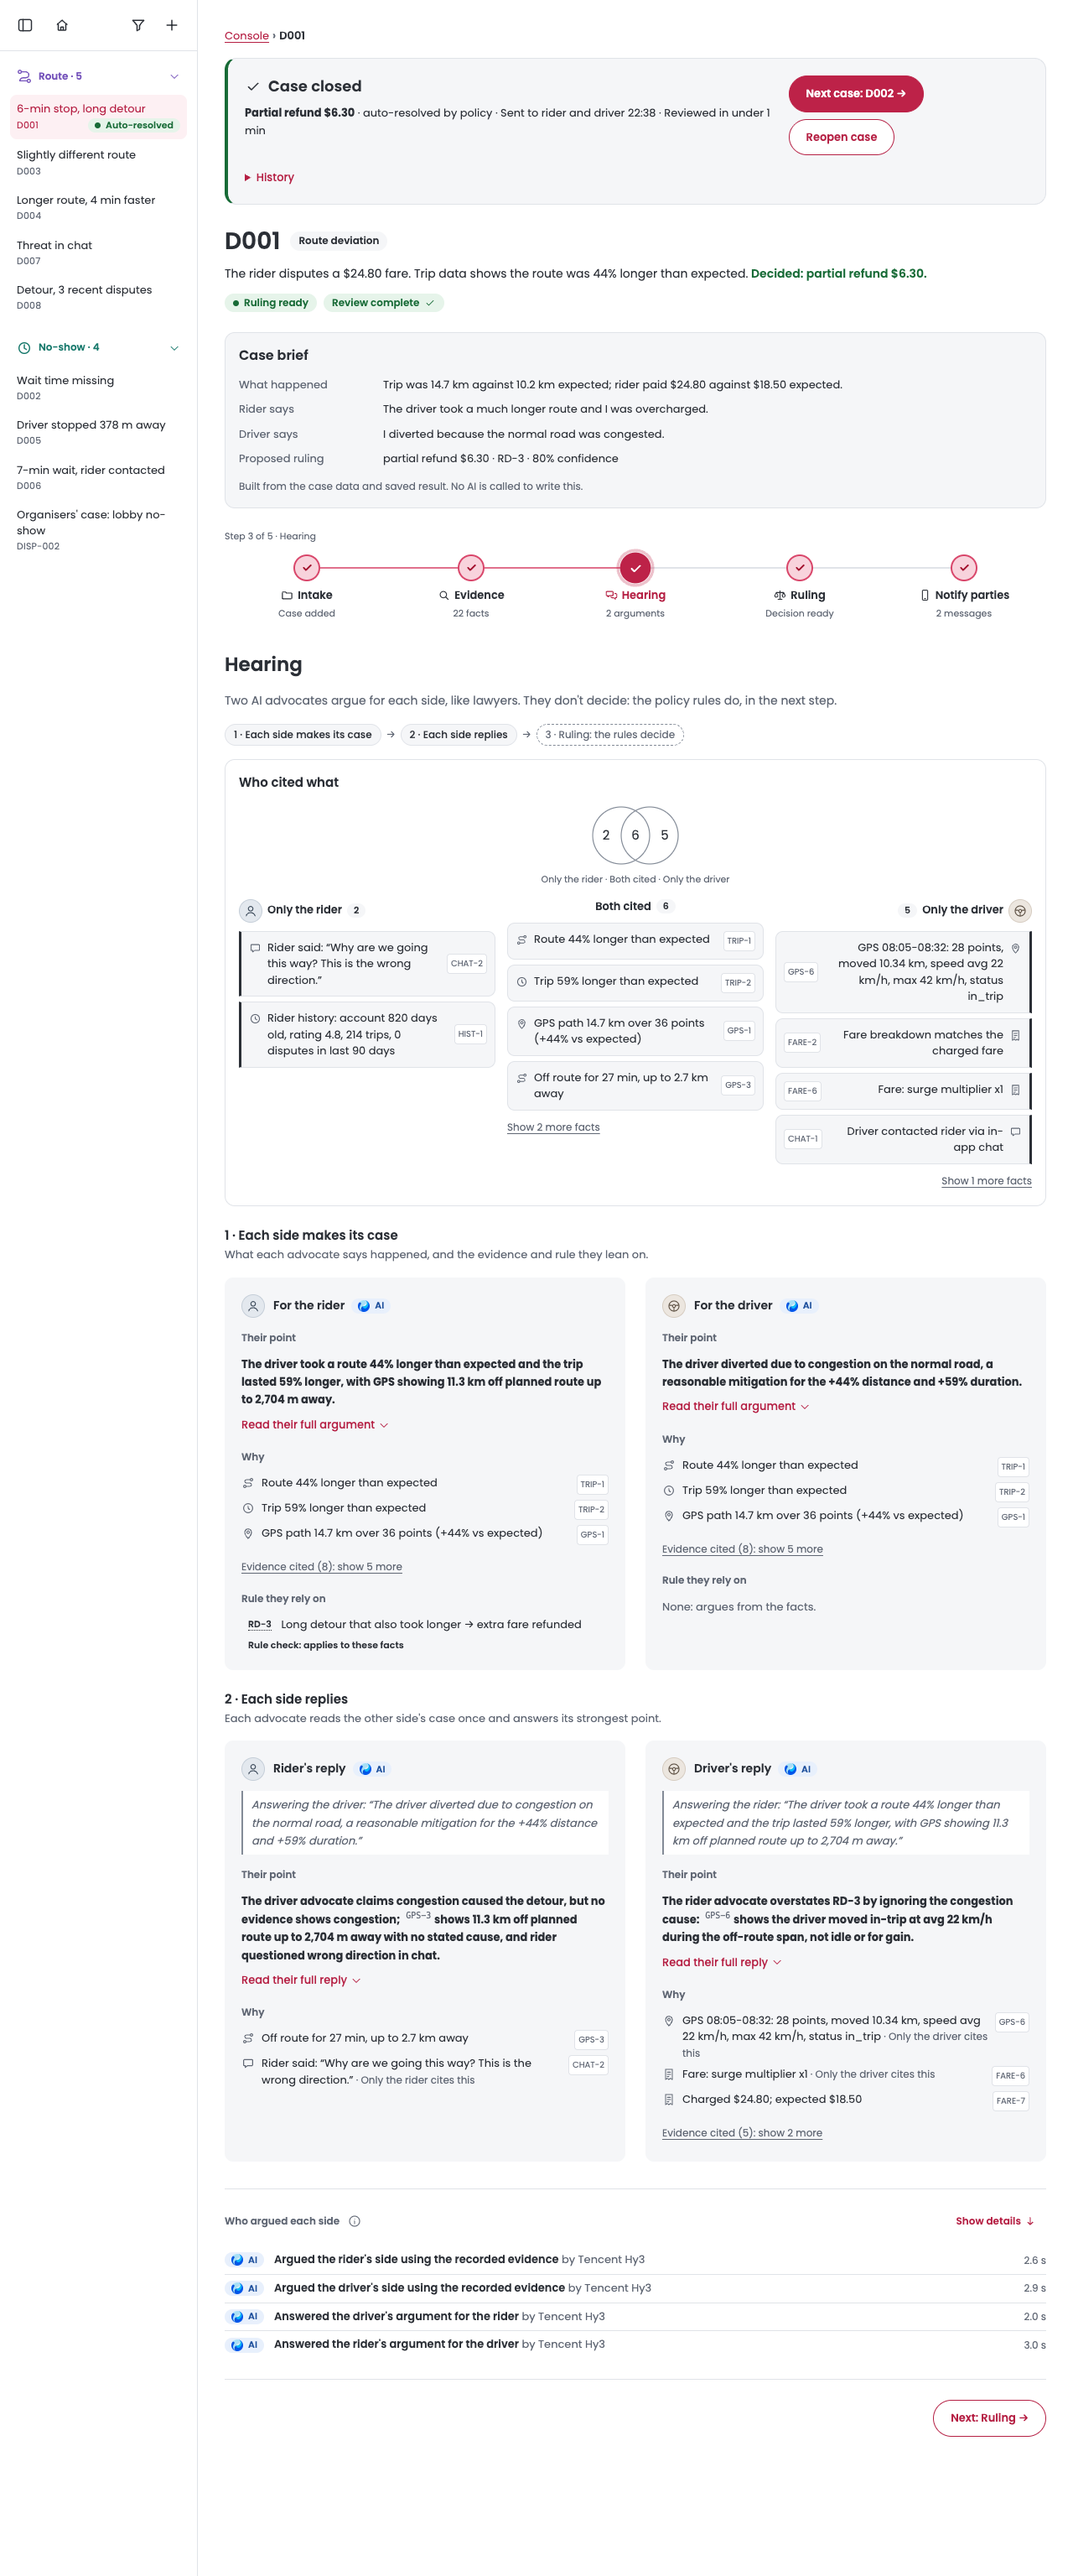
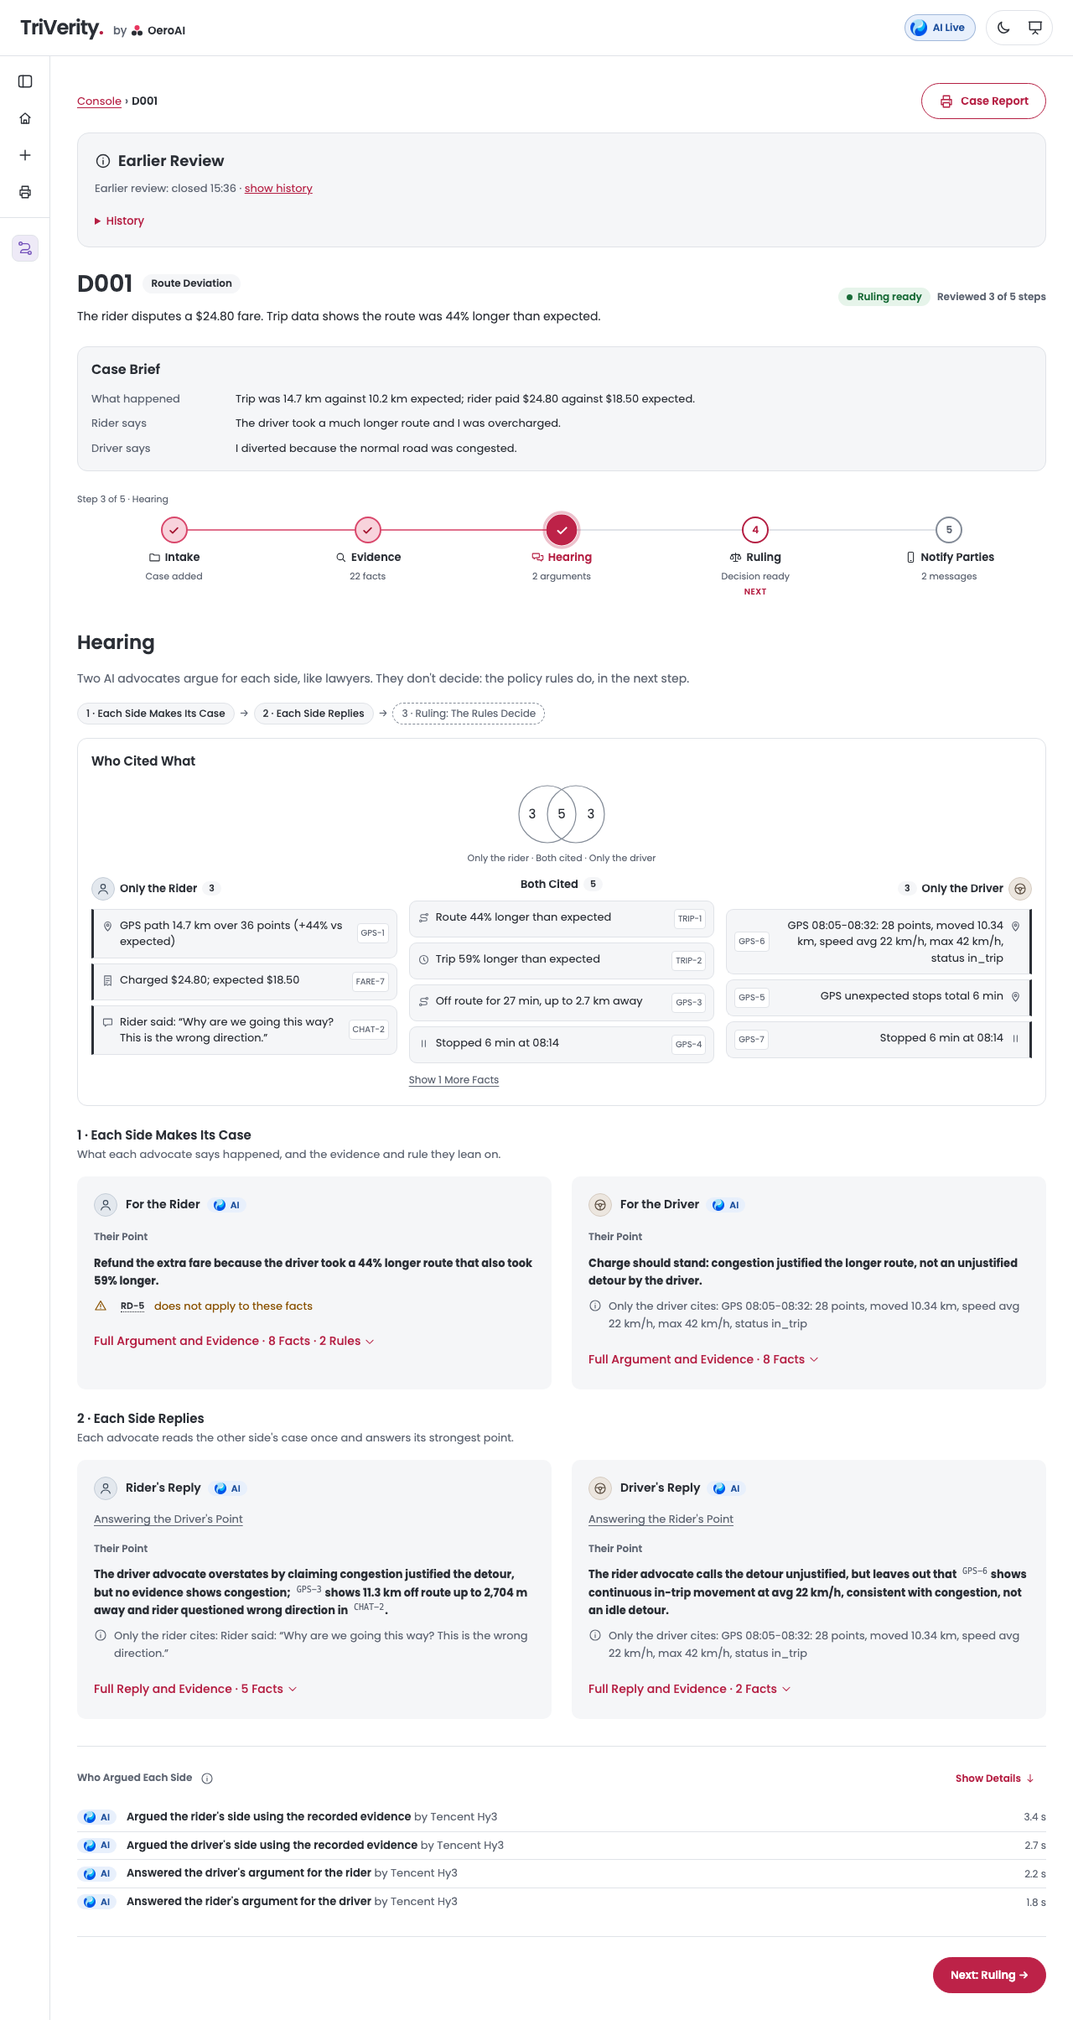
README: New for Demo Day section and fresh screenshots
Adds a section near the top of the README on what changed on 31 Oct: AI Review and its confirmation, the plainer Ruling, bad-faith reasons, Rules for This Case, case reports, shorter Hearing cards, the simpler Evidence step and clearer AI labels. Retakes all eleven screenshots from current main and adds three. Updates test counts to 955 backend and 428 frontend, the AI Live / AI Off and Run Agents names, and removes a stale claim about the History card.

diff --git a/README.md b/README.md
@@ -20,7 +20,7 @@ Live sample measurements and offline simulation results; [measurement context be
 
 ## A quick look
 
-Select an image to view it full size. [All eleven screenshots and their provenance](docs/screenshots/README.md).
+Select an image to view it full size. [All fourteen screenshots and their provenance](docs/screenshots/README.md).
 
 <table width="100%">
 <tr>
@@ -29,13 +29,37 @@ Select an image to view it full size. [All eleven screenshots and their provenan
 </tr>
 <tr>
 <td width="50%"><a href="docs/screenshots/04-evidence.png"><img src="docs/screenshots/04-evidence.png" alt="D001 evidence with the GPS route, stop timeline, fare checks and source facts" width="100%"></a><br><strong>Check the evidence</strong></td>
-<td width="50%"><a href="docs/screenshots/05-hearing.png"><img src="docs/screenshots/05-hearing.png" alt="Rider and driver arguments with key facts, evidence categories and rebuttals" width="100%"></a><br><strong>Hear both sides</strong></td>
+<td width="50%"><a href="docs/screenshots/05-hearing.png"><img src="docs/screenshots/05-hearing.png" alt="Rider and driver arguments side by side: who cited what, each side's point, and the detail folded under it" width="100%"></a><br><strong>Hear both sides</strong></td>
 </tr>
 <tr>
-<td width="50%"><a href="docs/screenshots/06-ruling.png"><img src="docs/screenshots/06-ruling.png" alt="Ruling with the outcome, confidence, explanation and accept or override controls" width="100%"></a><br><strong>Review the ruling</strong></td>
+<td width="50%"><a href="docs/screenshots/06-ruling.png"><img src="docs/screenshots/06-ruling.png" alt="Ruling that leads with the outcome and why, what the rules found, what would change it, and accept or override controls" width="100%"></a><br><strong>Review the ruling</strong></td>
 <td width="50%"><a href="docs/screenshots/07-notify.png"><img src="docs/screenshots/07-notify.png" alt="Delivered rider and driver phone messages with an optional reviewer note" width="100%"></a><br><strong>Approve the party messages</strong></td>
 </tr>
+<tr>
+<td width="50%"><a href="docs/screenshots/12-rules-for-this-case.png"><img src="docs/screenshots/12-rules-for-this-case.png" alt="D008 ruling explaining why it needs a person, with each policy rule and its result on this case in a side panel" width="100%"></a><br><strong>See every rule's result on this case</strong></td>
+<td width="50%"><a href="docs/screenshots/13-case-report.png"><img src="docs/screenshots/13-case-report.png" alt="Printable case report for D008 with its status, rules, evidence, arguments and how AI was used" width="100%"></a><br><strong>Save a case report as PDF</strong></td>
+</tr>
 </table>
+
+## New for Demo Day
+
+Added on 31 Oct 2026, after the hackathon submission. None of this changes the policy rules or how a ruling is decided;
+it makes the console easier for a real reviewer to use. The demo video was recorded before these changes.
+
+- **AI Review for the whole queue:** one button runs the waiting sample cases. Routine ones close themselves, and the
+  rest stay in your queue, [safety first, then oldest](docs/screenshots/02-reviewer-home.png).
+- **A confirmation before it runs:** [AI Review says what it will do](docs/screenshots/14-ai-review-confirm.png), with
+  the approximate AI cost and a warning that routine cases close and notify the rider and driver.
+- **A plainer Ruling:** [it opens with the outcome and why](docs/screenshots/06-ruling.png), then what the rules found
+  and what would change it. When a person must decide, it says [why, and what each side asks for](docs/screenshots/12-rules-for-this-case.png).
+- **Bad-faith risk comes with its reasons:** an escalation lists the signals behind it, and says a signal isn't proof.
+- **Rules for This Case:** [each rule's result on this case](docs/screenshots/12-rules-for-this-case.png), with the full
+  policy one click away, so a reviewer doesn't have to remember it.
+- **Case reports:** a [printable report for each case](docs/screenshots/13-case-report.png), saved as PDF from the
+  browser. It opens from the case page or the side menu, says whether the outcome is final, and is marked internal.
+- **Shorter Hearing cards:** [each side's point first](docs/screenshots/05-hearing.png), with the argument and evidence folded beneath it.
+- **A simpler Evidence step:** [a list of findings](docs/screenshots/04-evidence.png), one source at a time, with flagged items first.
+- **Clearer AI labels:** if AI Live is on but a result used fallback text, the Ruling says so and suggests a re-run.
 
 ## Architecture
 
@@ -43,7 +67,7 @@ Select an image to view it full size. [All eleven screenshots and their provenan
 
 [Read the architecture](docs/architecture.md) · [Watch live progress](docs/screenshots/03-live-progress.png) · [Closed review and correction history](docs/screenshots/08-closed-case.png) · [A case that closed itself](docs/screenshots/11-auto-resolved.png)
 
-**On this page:** [Results](#results) · [What it does](#what-it-does) · [Ryde requirements](#ryde-requirements-where-to-see-each) · [Documentation](#documentation) · [Run it locally](#run-it-locally) · [What's next](#whats-next) · [Built with](#built-with)
+**On this page:** [New for Demo Day](#new-for-demo-day) · [Results](#results) · [What it does](#what-it-does) · [Ryde requirements](#ryde-requirements-where-to-see-each) · [Documentation](#documentation) · [Run it locally](#run-it-locally) · [What's next](#whats-next) · [Built with](#built-with)
 
 ## Results
 
@@ -110,12 +134,13 @@ same facts always give the same ruling, and every ruling is explained.
   case, and automatic decisions never become precedents
 - **Observable**: the demo UI shows the evidence, each agent's argument and citations, the fraud risk, and
   whether the AI or the fallback produced each step
-- **Reviewer workflow**: home queue → Evidence → Hearing → Ruling (accept or override) → Notify
+- **Reviewer workflow**: home queue (**AI Review** runs the waiting cases, after a confirmation) → Evidence → Hearing → Ruling (accept or override) → Notify
   (optional reviewer note and privacy check). Internal IDs and assessments in a note block sending;
   everyday words such as "history" only warn. Sending closes the case; a deliberate reopen permits a
   correction, while history keeps every sent message. An investigation or a refund above the reviewer's
   limit puts the case on hold (simulated) and nobody is notified. Parties can appeal after delivery.
-  Review state, including holds, is kept in the browser session.
+  Review state, including holds, is kept in the browser session. Any case with a result can be saved as a
+  [PDF report](docs/screenshots/13-case-report.png).
 
 ## Responsible AI and security
 
@@ -158,7 +183,7 @@ The full threat model is in [docs/security.md](docs/security.md).
 | **Observable inter-agent communication** | [Live progress](docs/screenshots/03-live-progress.png), [Hearing](docs/screenshots/05-hearing.png), [streamed agent log](docs/api-contract.md#post-apidisputesresolvestream); “How this step was decided” on every console step |
 | **Architecture diagram** | [Diagram](docs/architecture.svg), [design explanation](docs/architecture.md) |
 | **Stretch: Evidence Collection agent** | [Per-side tool calls over mock Ryde data APIs](docs/architecture.md#flow) |
-| **Stretch: Fraud & Bad-Faith detection** | [Deterministic risk from history and contradicted claims](docs/architecture.md#flow); [Ruling](docs/screenshots/06-ruling.png). Risk scores feed the Judge; the History card flags high risk. |
+| **Stretch: Fraud & Bad-Faith detection** | [Deterministic risk from history and contradicted claims](docs/architecture.md#flow); [Ruling, with the reasons listed](docs/screenshots/12-rules-for-this-case.png). Risk scores feed the Judge; the Evidence History card stays neutral. |
 | **Stretch: Policy & Precedent agent** | [Retrieval and reviewer feedback](docs/architecture.md#flow); [Ruling](docs/screenshots/06-ruling.png) |
 | **Stretch: Escalation protocol** | [Priority tiers](docs/architecture.md#review-triage-and-the-queue-and-sla-layer-it-feeds): low confidence, threats, missing data or high risk → human review |
 | **Stretch: Learning feedback loop** | [Reviewer decisions and appeals become precedents](docs/architecture.md#flow); [closed-case corrections and history](docs/screenshots/08-closed-case.png) |
@@ -170,7 +195,7 @@ The full threat model is in [docs/security.md](docs/security.md).
 [Documentation index](docs/README.md): architecture, responsible AI, security, evaluation, business case,
 API, deployment, submission and milestones, each with a short description.
 
-**Verified on 30 Oct 2026:** 941 backend tests and 361 frontend tests pass. Tests never call a real LLM.
+**Verified on 31 Oct 2026:** 955 backend tests and 428 frontend tests pass. Tests never call a real LLM.
 
 ## Run it locally
 
@@ -218,8 +243,8 @@ npm install
 npm run dev
 ```
 
-Open `http://localhost:5173`, open the reviewer console, pick a sample dispute and press **Run agents**. Each run
-makes 7–9 LLM calls (about 10,000 tokens); switch **AI** to **Offline** in the header to run it free.
+Open `http://localhost:5173`, open the reviewer console, pick a sample dispute and press **Run Agents**. Each run
+makes 7–9 LLM calls (about 10,000 tokens); switch **AI Live** to **AI Off** in the header to run it free.
 
 ### Tests and evaluation
 
@@ -292,7 +317,7 @@ with tests and CI, and measured on live Hy3 before claiming any number.
 - **Turn failures into rules.** Every rule in our prompts and output checks exists because live Hy3 output broke
   it once. For example, advocates cited rules that favoured the other side (9 times in 14 cases) until a prompt
   change cut it to 2 ([prompts.md](docs/prompts.md)).
-- **Verify everything.** We checked every AI change with tests (1,302 in total) and every AI-written claim against
+- **Verify everything.** We checked every AI change with tests (1,383 in total) and every AI-written claim against
   the code. WorkBuddy's consistency review of our own docs found facts that had drifted between files.
 - **Use tools for what they're good at.** CodeBuddy for the AI core, WorkBuddy as a reviewer of our writing,
   Miora for visuals, and Claude Code, OpenAI Codex and Kiro for features, refactors and code review, all

diff --git a/docs/screenshots/README.md b/docs/screenshots/README.md
@@ -1,33 +1,37 @@
 # Curated project screenshots
 
-These views use synthetic dispute data. All eleven were captured afresh on 30 October 2026 from `main`
-(`1331c2e`) running locally, in headless Chrome with reduced motion. D001 and D007 ran live against Hy3; D004
-and D006 ran offline, because they only appear as rows in the queue. The earlier 16 October captures remain in
-[docs/review](../review/).
+These views use synthetic dispute data. All fourteen were captured afresh on 31 October 2026 from `main`
+(`6c5989b`) running locally, in headless Chrome with reduced motion, against live Hy3. The earlier captures remain in
+this folder's git history and in [docs/review](../review/).
 
 | View | Image | What it shows | Bytes |
 |---|---|---|---:|
-| Landing | [01-landing.png](01-landing.png) | Landing page, light theme, 1280 × 900 | 327,447 |
-| Reviewer home | [02-reviewer-home.png](02-reviewer-home.png) | Queue with an auto-resolved case, two closed cases and one on hold | 148,009 |
-| Live progress | [03-live-progress.png](03-live-progress.png) | D001 during a live Hy3 run, 13 s in | 148,859 |
-| Evidence | [04-evidence.png](04-evidence.png) | D001, live Hy3 run | 369,318 |
-| Hearing | [05-hearing.png](05-hearing.png) | D001, live Hy3 run; every argument and reply came from the AI | 474,748 |
-| Ruling | [06-ruling.png](06-ruling.png) | D001 reopened by a reviewer, with accept and override controls | 338,200 |
-| Notify | [07-notify.png](07-notify.png) | D007, live Hy3 run; a reviewer decided $6.90 and added a quick note | 256,434 |
-| Closed case | [08-closed-case.png](08-closed-case.png) | D001 after a correction, with the sent history open | 333,085 |
-| Mobile | [09-mobile.png](09-mobile.png) | Reviewer home, 375 px wide | 135,720 |
-| Dark | [10-dark.png](10-dark.png) | Reviewer home, dark theme, 1280 × 800 | 105,421 |
-| Auto-resolved | [11-auto-resolved.png](11-auto-resolved.png) | D001 closed by itself under the policy, showing why | 279,473 |
+| Landing | [01-landing.png](01-landing.png) | Landing page, light theme, 1280 × 900 | 327,560 |
+| Reviewer home | [02-reviewer-home.png](02-reviewer-home.png) | Queue after all nine cases ran: four need a person, five closed themselves | 119,674 |
+| Live progress | [03-live-progress.png](03-live-progress.png) | D001 during a live Hy3 run, 11 s in | 118,197 |
+| Evidence | [04-evidence.png](04-evidence.png) | D001, reopened by a reviewer, live Hy3 run | 196,449 |
+| Hearing | [05-hearing.png](05-hearing.png) | D001, reopened by a reviewer; every argument and reply came from the AI | 347,871 |
+| Ruling | [06-ruling.png](06-ruling.png) | D001 reopened by a reviewer, with accept and override controls | 262,480 |
+| Notify | [07-notify.png](07-notify.png) | D007, live Hy3 run; a reviewer decided $6.90, before sending | 202,344 |
+| Closed case | [08-closed-case.png](08-closed-case.png) | D001 after a correction, with the sent history open | 252,246 |
+| Mobile | [09-mobile.png](09-mobile.png) | Reviewer home, 375 px wide | 60,477 |
+| Dark | [10-dark.png](10-dark.png) | Reviewer home, dark theme, 1280 × 800 | 94,769 |
+| Auto-resolved | [11-auto-resolved.png](11-auto-resolved.png) | D001 closed by itself under the policy, right after its run | 205,975 |
+| Rules for This Case | [12-rules-for-this-case.png](12-rules-for-this-case.png) | D008 escalated for bad-faith risk, with its reasons and the rules panel, 1900 px wide | 289,666 |
+| Case report | [13-case-report.png](13-case-report.png) | The D008 report on screen; the browser saves this page as a PDF | 530,768 |
+| AI Review confirmation | [14-ai-review-confirm.png](14-ai-review-confirm.png) | The message shown before AI Review runs nine cases | 125,034 |
 
-Total curated image size: **2,916,714 bytes**. Every image is below 600 KB.
+Total curated image size: **3,133,510 bytes**. Every image is below 600 KB.
 
 The live-progress view is a still taken during the run. The reviewer decisions in these views are simulated
-in the prototype, and no real message or payment was sent.
+in the prototype, and no real message or payment was sent. Sample cases were run one at a time and repeated
+where a step used fallback text, so these views show AI-written text on every step; a real run can fall back, and the
+console labels it when it does.
 
 ## Repository cover
 
 [cover.jpg](cover.jpg) is an optimised copy of the cover artwork supplied by the team on 16 October 2026.
-It is separate from the eleven synthetic UI screenshots above: 1280 × 731 px, **66,709 bytes**, resized
+It is separate from the fourteen synthetic UI screenshots above: 1280 × 731 px, **66,709 bytes**, resized
 proportionally from 2016 × 1152 px and exported as JPEG at quality 85 with 4:4:4 chroma sampling.
 No crop or new artwork was applied; embedded metadata is stripped. The original file is unchanged.
 The original PNG was 2,242,934 bytes, so this export reduces the download by **97.0%**.

diff --git a/docs/README.md b/docs/README.md
@@ -32,11 +32,11 @@ A judge's route: [product and results](../README.md) → [architecture](architec
 
 ## Visual evidence
 
-- [Curated screenshots](screenshots/README.md): eleven judge-facing views, image provenance and size checks.
+- [Curated screenshots](screenshots/README.md): fourteen judge-facing views, image provenance and size checks.
 - [Review screenshots per feature](review/): the original before/after design-review record, retained in place.
 
 ## Verified build
 
-On 30 Oct 2026, `main` passed **941 backend tests** and **361 frontend tests**,
+On 31 Oct 2026, `main` passed **955 backend tests** and **428 frontend tests**,
 TypeScript checking and the production frontend build. Backend tests ran with `LLM_API_KEY=''`;
 no real LLM was called. [Local setup and commands](../README.md#run-it-locally).

diff --git a/docs/submission.md b/docs/submission.md
@@ -123,7 +123,7 @@ TriVerity targets each of these:
   favour the other side (9 wrong-side citations in 14 cases, down to 2 after the prompt change).
 
 **Technology:** Tencent Hy3 through Tencent Cloud TokenHub; Python FastAPI backend; React + TypeScript
-frontend; 941 backend and 361 frontend tests (verified on 30 Oct 2026); a Docker image and Render Blueprint for the live
+frontend; 955 backend and 428 frontend tests (verified on 31 Oct 2026); a Docker image and Render Blueprint for the live
 demo (https://triverity-demo.onrender.com). **Built with:** Tencent Cloud **CodeBuddy**
 (the LLM client, advocate agents, hardening, UI badges and the Fraud & Bad-Faith detector); **WorkBuddy**
 (Hy4 preview) to polish this submission text, review the docs for consistency, prepare judge Q&A and

diff --git a/docs/api-contract.md b/docs/api-contract.md
@@ -94,7 +94,7 @@ call at all: the ruling is identical (rules decide), and every `source` and
 `explanation_source` is `"fallback"`, so arguments and explanations use template text.
 Offline runs cost nothing, so they don't count against the daily LLM budget and, in public demo
 mode, bypass the result cache (they never read or fill it). Rate limits and resolve slots
-still apply. The console's **AI Live / Offline** switch sets this. `/resolve/stream` accepts it too.
+still apply. The console's **AI Live / AI Off** switch sets this. `/resolve/stream` accepts it too.
 
 ### Public demo mode (`PUBLIC_DEMO=true`)
 
